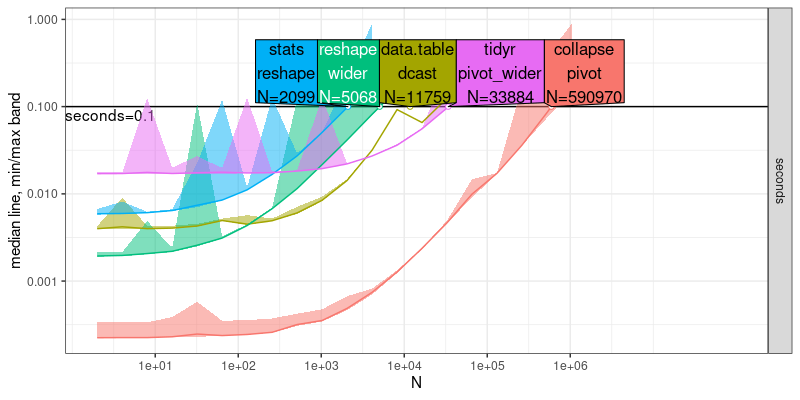
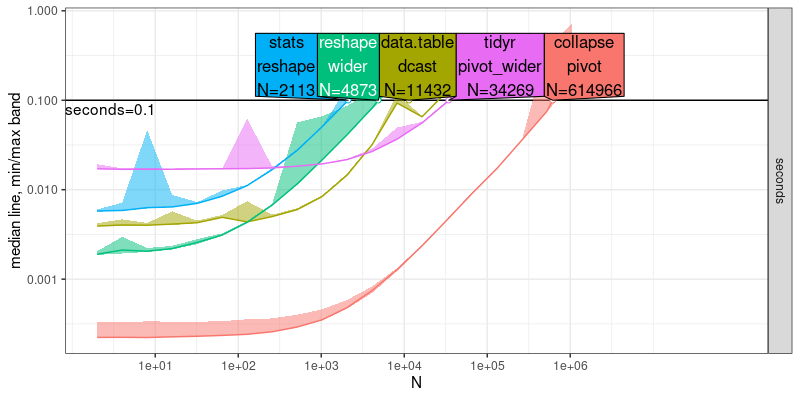
fix figures

diff --git a/_posts/2024-08-05-collapse-reshape.md b/_posts/2024-08-05-collapse-reshape.md
@@ -245,17 +245,18 @@ functions:
 
 ``` r
 a.res <- atime::atime(
+  N=2^seq(1,50),
   setup={
     (row.id.vec <- 1+(seq(0,N-1) %% nrow(iris)))
     N.df <- iris[row.id.vec,]
     (N.dt <- data.table(N.df))
   },
   seconds.limit=0.1,
-  reshape_taller=reshape_taller(N.df,1:4),
-  "stats::reshape"=stats::reshape(N.df, direction="long", varying=list(cols.to.reshape), v.names="cm"),
-  "data.table::melt"=melt(N.dt, measure.vars=cols.to.reshape, value.name="cm"),
-  "tidyr::pivot_longer"=tidyr::pivot_longer(N.df, cols.to.reshape, values_to = "cm"),
-  "collapse::pivot"=collapse::pivot(N.df, values=cols.to.reshape, names=list("variable", "cm")))
+  "reshape\ntaller"=reshape_taller(N.df,1:4),
+  "stats\nreshape"=suppressWarnings(stats::reshape(N.df, direction="long", varying=list(cols.to.reshape), v.names="cm")),
+  "data.table\nmelt"=melt(N.dt, measure.vars=cols.to.reshape, value.name="cm"),
+  "tidyr\npivot_longer"=tidyr::pivot_longer(N.df, cols.to.reshape, values_to = "cm"),
+  "collapse\npivot"=collapse::pivot(N.df, values=cols.to.reshape, names=list("variable", "cm")))
 a.refs <- atime::references_best(a.res)
 a.pred <- predict(a.refs)
 plot(a.pred)+coord_cartesian(xlim=c(1e2,1e7))
@@ -267,6 +268,9 @@ plot(a.pred)+coord_cartesian(xlim=c(1e2,1e7))
 ```
 
 ![plot of chunk atime-tall](/assets/img/2024-08-05-collapse-reshape/atime-tall-1.png)
+
+The result above shows that `collapse` is fastest, but `data.table` is
+almost as fast (by small a constant factor).
 
 ## reshape wider
 
